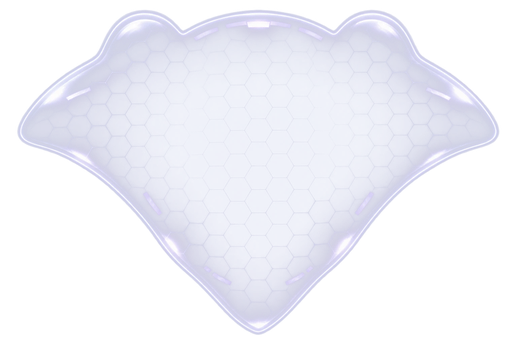
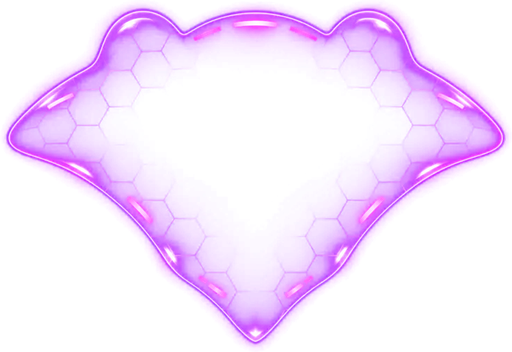
boss shield v2: user's violet energy-shield art (extracted from black, glow kept); remove the two flat aura circles around the boss

diff --git a/index.html b/index.html
@@ -54,8 +54,8 @@ const bossImg = new Image();
 bossImg.src = 'ASSETS/boss.png';
 const BOSS_W = 190, BOSS_H = 127; // 1536×1024 oranında
 const bossShieldImg = new Image();
-bossShieldImg.src = 'ASSETS/shields/boss-shield.png'; // sektör 1 boss kalkanı (512×342, boss silüetinde)
-const BOSS_SHIELD_W = 220, BOSS_SHIELD_H = 147;
+bossShieldImg.src = 'ASSETS/shields/boss-shield.png'; // sektör 1 boss kalkanı (512×352, siyah zeminden ayıklandı; v1: SOURCES/SHIELD)
+const BOSS_SHIELD_W = 220, BOSS_SHIELD_H = 151;
 
 // Düşman görsel boyutları — gerçek en/boy oranına göre (sıkı kırpılmış assetler)
 // Şerit 130px: en büyük düşman şeridin ~%85'i (zikzakta komşu şeride taşmaz), küçükler okunur kalır
@@ -2923,12 +2923,6 @@ function drawBoss(b) {
   ctx.translate(b.x, b.y);
   ctx.scale(sc, sc);
   ctx.globalAlpha = flashAlpha * (b.cloak ? 0.16 + 0.06 * Math.sin(frameCount * 0.3) : 1);
-
-  // Dış aura — gradient yerine 2 transparan circle
-  ctx.fillStyle = `rgba(${p.aura1},${0.18 * pulse})`;
-  ctx.beginPath(); ctx.arc(0, 0, 75, 0, Math.PI * 2); ctx.fill();
-  ctx.fillStyle = `rgba(${p.aura1},${0.22 * pulse})`;
-  ctx.beginPath(); ctx.arc(0, 0, 48, 0, Math.PI * 2); ctx.fill();
 
   // Boss görseli
   if (bossImg.complete && bossImg.naturalWidth > 0) {

diff --git a/sw.js b/sw.js
@@ -1,4 +1,4 @@
-const CACHE = 'space-shooter-v13';
+const CACHE = 'space-shooter-v14';
 const ASSETS = ['./index.html', './manifest.json', './ASSETS/spaceship.png', './ASSETS/enemy1.png', './ASSETS/enemy2.png', './ASSETS/enemy3.png', './ASSETS/boss.png', './ASSETS/shields/boss-shield.png', './icon-192.png', './icon-512.png', './ASSETS/cards/deep-space.jpg', './ASSETS/cards/asteroid-belt.jpg', './ASSETS/cards/nebula.jpg', './ASSETS/cards/black-hole.jpg', './ASSETS/backgrounds/deep-space.jpg', './ASSETS/powerups/shield.png', './ASSETS/powerups/triple-shot.png', './ASSETS/powerups/double-shot.png', './ASSETS/powerups/bomb.png', './ASSETS/shots/enemy-shot.png', './ASSETS/backgrounds/asteroid-belt.jpg', './ASSETS/backgrounds/nebula.jpg', './ASSETS/backgrounds/black-hole.jpg', './ASSETS/rocks/rock-small-1.png', './ASSETS/rocks/rock-small-2.png', './ASSETS/rocks/rock-small-3.png', './ASSETS/rocks/rock-medium-1.png', './ASSETS/rocks/rock-medium-2.png', './ASSETS/rocks/rock-medium-3.png', './ASSETS/rocks/rock-large-1.png', './ASSETS/rocks/rock-large-2.png', './ASSETS/rocks/rock-large-3.png'];
 
 self.addEventListener('install', e => {
